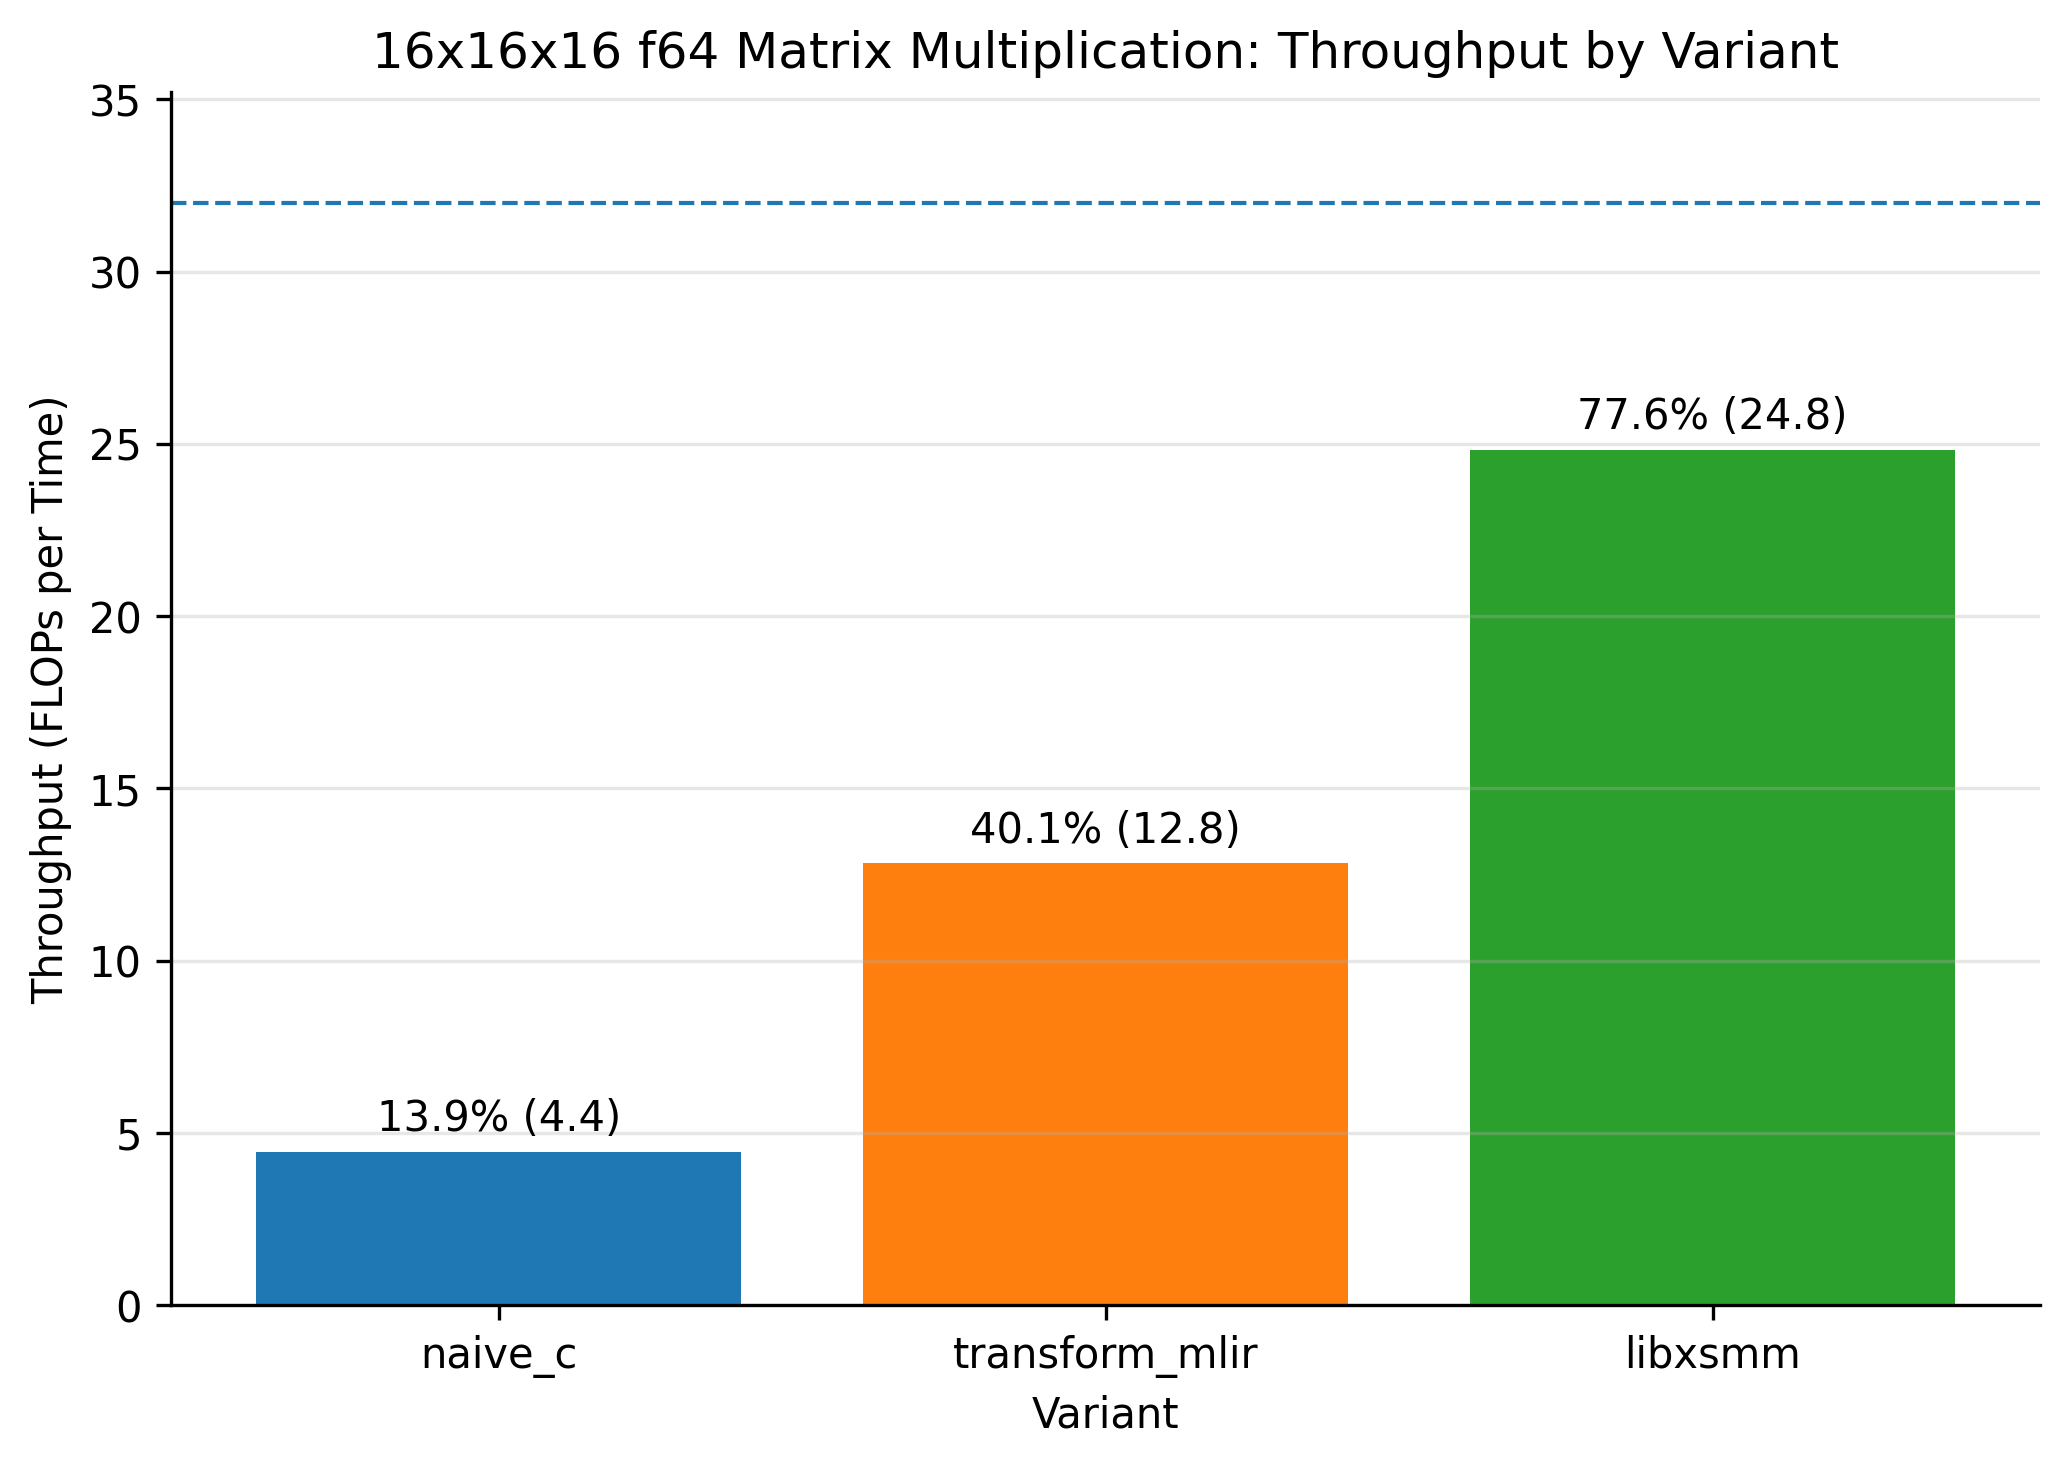
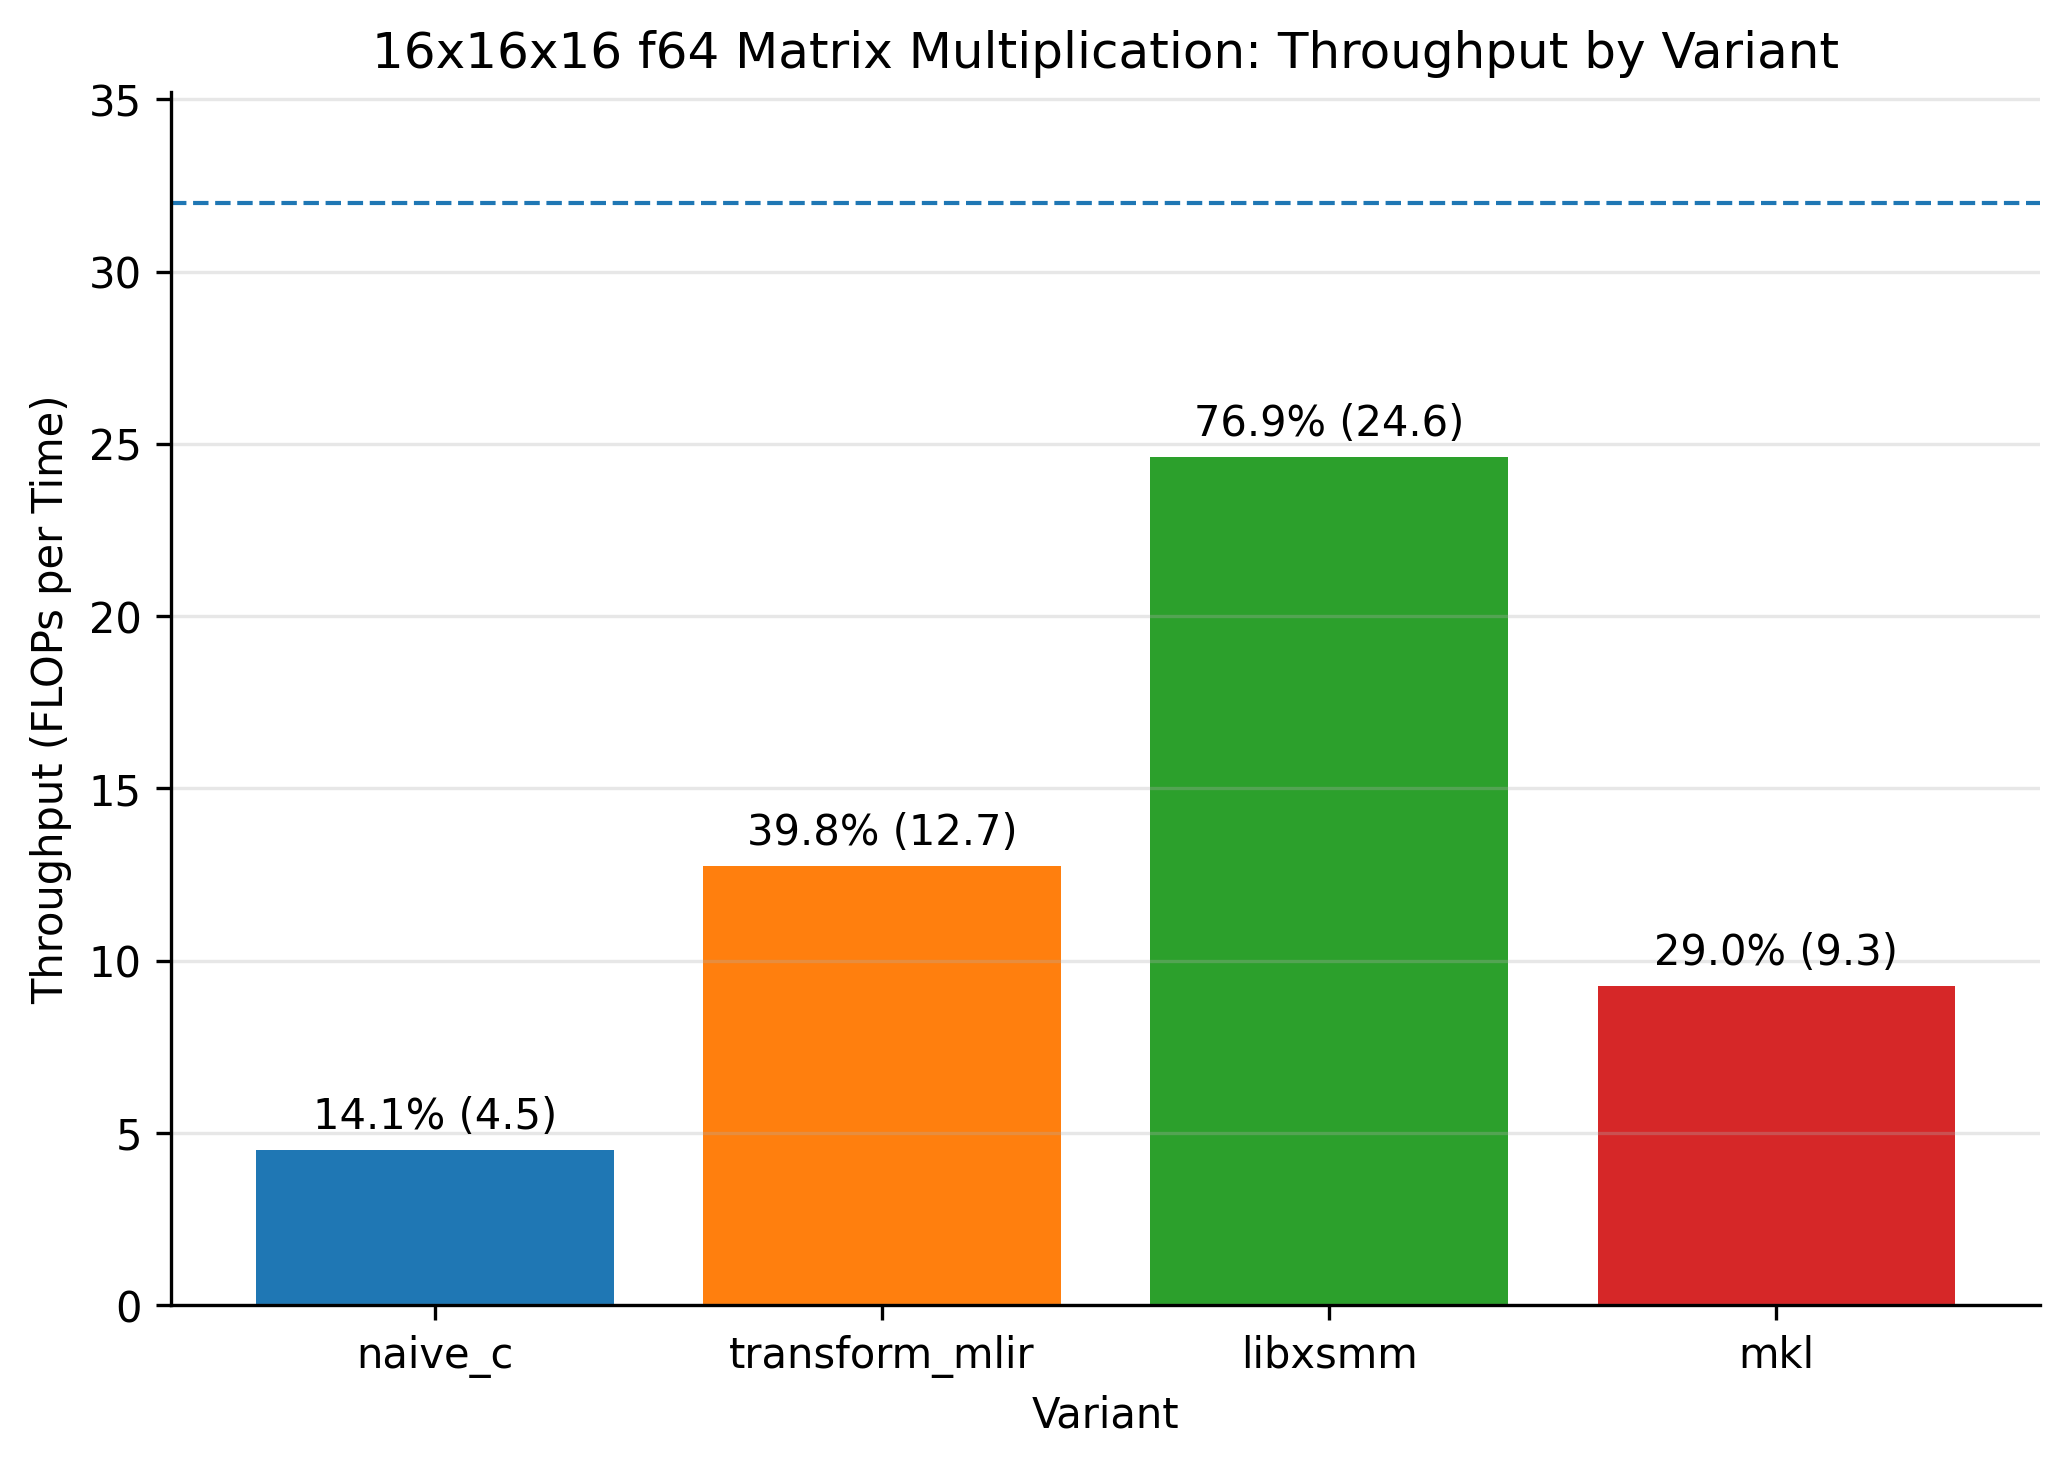
MKL integration (#149)

Changed region(s): [[0.1546, 0.2763, 0.9585, 0.9516], [0.1855, 0.9209, 0.2783, 0.9516]]

diff --git a/kernels/matmul_rowmaj/mkl.c b/kernels/matmul_rowmaj/mkl.c
@@ -1,0 +1,24 @@
+#include <mkl.h>
+#include <stdio.h>
+#include <stdlib.h>
+#include <assert.h>
+
+void matmul(MKL_DTYPE *A, const MKL_DTYPE *B, MKL_DTYPE *C) {
+  if (sizeof(MKL_DTYPE) == 4) {
+    cblas_sgemm(CblasRowMajor, CblasNoTrans, CblasNoTrans,
+                MKL_M, MKL_N, MKL_K,
+                1.0f /* alpha */,
+                A, MKL_K,
+                B, MKL_N,
+                0.0f /* beta */,
+                C, MKL_N);
+  } else {
+    cblas_dgemm(CblasRowMajor, CblasNoTrans, CblasNoTrans,
+                MKL_M, MKL_N, MKL_K,
+                1.0f /* alpha */,
+                A, MKL_K,
+                B, MKL_N,
+                0.0f /* beta */,
+                C, MKL_N);
+  }
+}
